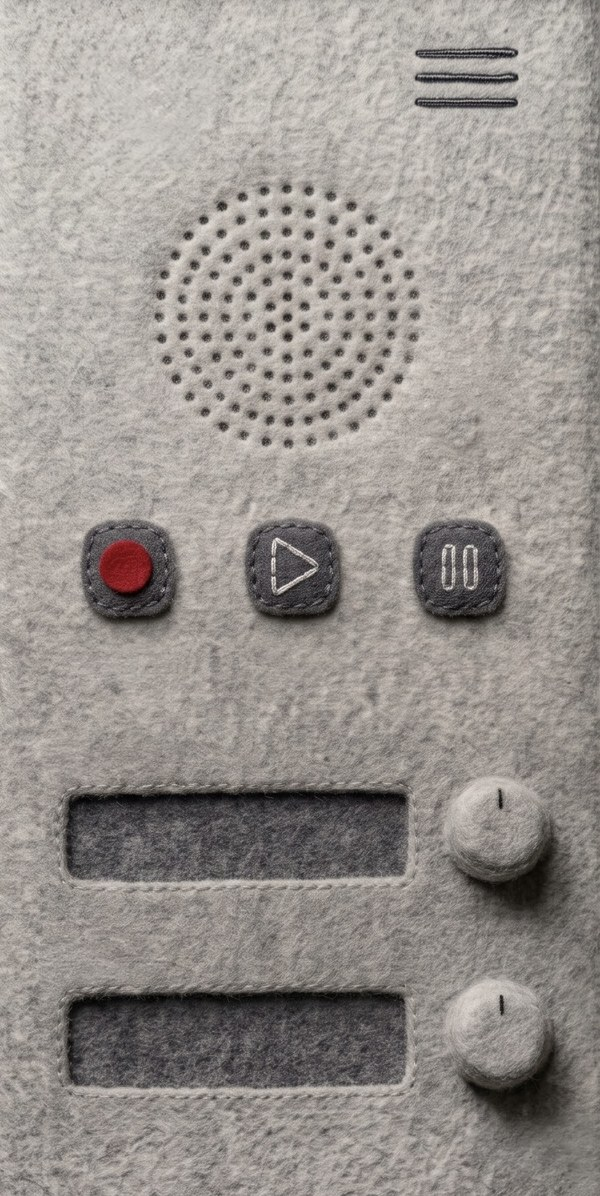
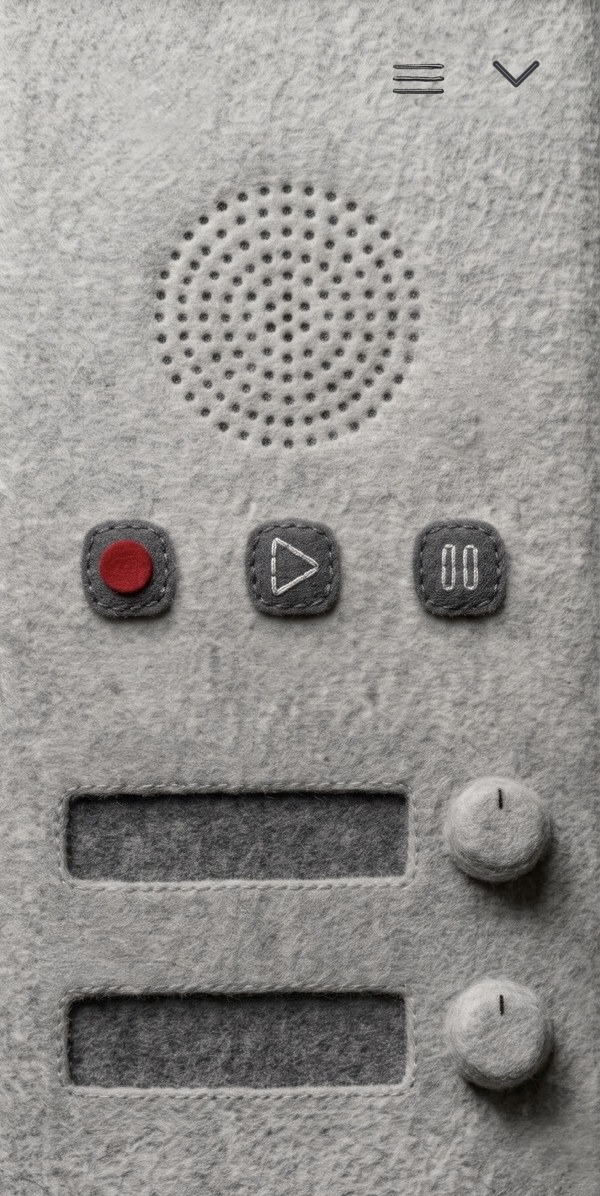
Tape player: as tall as an iPhone is wide, volume knob, close arrow, half-size menu lines, softer grey felt
Claude-Session: https://claude.ai/code/session_01NDsvQ4w6b4M39K7iEhCswz

Changed region(s): [[0.66, 0.0309, 0.9, 0.0928]]

diff --git a/src/components/TapePlayer.js b/src/components/TapePlayer.js
@@ -4,28 +4,37 @@
 //     button in the reading bar; the little red light comes on only while recording)
 //   Sounds (top window) and Music (bottom window): tap a knob to click through the choices; the choice shows
 //     in the window in white, and the knob turns a notch each click
-//   the three lines at the top: open the Music and Sounds page
+//   Volume (the small knob top left): tap to click louder (round again after the loudest), or turn it by
+//     dragging up and down
+//   the three lines at the top: open the Music and Sounds page; the down arrow: close the player
 import React, { useEffect, useRef, useState } from 'react';
 import { Animated, Image, PanResponder, Pressable, StyleSheet, Text, View, useWindowDimensions } from 'react-native';
 import { useSafeAreaInsets } from 'react-native-safe-area-context';
 import { fonts } from '../theme';
-import { MUSIC, SOUNDS, TRACKS, getAmbient, onAmbient, pauseAmbient, playAmbient, requestRecord, setPlayerPos, stepAmbient } from '../ambient';
+import { MUSIC, SOUNDS, TRACKS, getAmbient, onAmbient, pauseAmbient, playAmbient, requestRecord, setAmbientPlayer, setAmbientVolume, setPlayerPos, stepAmbient } from '../ambient';
 import { useT } from '../i18n';
 
 const BODY = require('../../assets/tape-player.jpg');
 const KNOB1 = require('../../assets/tape-knob1.png');
 const KNOB2 = require('../../assets/tape-knob2.png');
-const PW = 132; // the player's width on screen
-const PH = Math.round(PW * 1196 / 600);
-const f = PW / 900; // the picture's own units (900 wide) to the screen
-
-// a spot on the picture, in its own units
-const at = (x, y, w, h) => ({ position: 'absolute', left: x * f, top: y * f, width: w * f, height: h * f });
+// the player's size: almost as tall as an iPhone is wide (a little less on a very small screen)
+const sizeFor = (winW, winH) => {
+  const PH = Math.min(360, Math.round(Math.min(winW, winH) * 0.92));
+  const PW = Math.round(PH * 600 / 1196);
+  return { PW, PH, f: PW / 900 }; // f: the picture's own units (900 wide) to the screen
+};
+// the volume knob: quietest to loudest is a three-quarter turn
+const VMIN = 0.05;
+const angleOf = (v) => -135 + 270 * (Math.max(VMIN, Math.min(1, v)) - VMIN) / (1 - VMIN);
+const STEPS = [0.2, 0.4, 0.6, 0.8, 1];
 
 export default function TapePlayer({ bottomBar = 0, onMenu, toast }) {
   const t = useT();
   const insets = useSafeAreaInsets();
   const { width: winW, height: winH } = useWindowDimensions();
+  const { PW, PH, f } = sizeFor(winW, winH);
+  // a spot on the picture, in its own units
+  const at = (x, y, w, h) => ({ position: 'absolute', left: x * f, top: y * f, width: w * f, height: h * f });
   const [s, setS] = useState(getAmbient());
   useEffect(() => onAmbient(setS), []);
   // where it sits: where it was left, kept on screen (the first time: the right side, above the bar)
@@ -34,6 +43,10 @@ export default function TapePlayer({ bottomBar = 0, onMenu, toast }) {
     y: Math.max(insets.top + 6, Math.min(winH - PH - bottomBar - 6, p ? p.y : winH - PH - bottomBar - 14)),
   });
   const xy = useRef(new Animated.ValueXY(place(s.pos))).current;
+  const placeRef = useRef(place);
+  placeRef.current = place;
+  // when it shows, and when the phone turns: where it was left, kept on the screen
+  useEffect(() => { xy.setValue(place(getAmbient().pos)); }, [winW, winH, s.showPlayer]);
   const start = useRef({ x: 0, y: 0 });
   const drag = useRef(PanResponder.create({
     onMoveShouldSetPanResponder: (_, g) => Math.abs(g.dx) + Math.abs(g.dy) > 6,
@@ -41,7 +54,7 @@ export default function TapePlayer({ bottomBar = 0, onMenu, toast }) {
     onPanResponderGrant: () => { start.current = { x: xy.x._value, y: xy.y._value }; },
     onPanResponderMove: (_, g) => xy.setValue({ x: start.current.x + g.dx, y: start.current.y + g.dy }),
     onPanResponderRelease: (_, g) => {
-      const p = place({ x: start.current.x + g.dx, y: start.current.y + g.dy });
+      const p = placeRef.current({ x: start.current.x + g.dx, y: start.current.y + g.dy });
       Animated.spring(xy, { toValue: p, useNativeDriver: false, friction: 7 }).start();
       setPlayerPos(p);
     },
@@ -52,16 +65,49 @@ export default function TapePlayer({ bottomBar = 0, onMenu, toast }) {
   const k2 = useRef(new Animated.Value(notch(MUSIC, s.music))).current;
   useEffect(() => { Animated.spring(k1, { toValue: notch(SOUNDS, s.sound), useNativeDriver: true, friction: 6 }).start(); }, [s.sound]);
   useEffect(() => { Animated.spring(k2, { toValue: notch(MUSIC, s.music), useNativeDriver: true, friction: 6 }).start(); }, [s.music]);
-  const turn = (v) => ({ transform: [{ rotate: v.interpolate({ inputRange: [0, 360], outputRange: ['0deg', '360deg'] }) }] });
+  // the volume knob follows the volume; tap: the next step up; drag up and down: turn it
+  const kv = useRef(new Animated.Value(angleOf(s.volume))).current;
+  const volDrag = useRef(false);
+  useEffect(() => { if (!volDrag.current) Animated.spring(kv, { toValue: angleOf(s.volume), useNativeDriver: true, friction: 6 }).start(); }, [s.volume]);
+  const vol0 = useRef(0);
+  const volKnob = useRef(PanResponder.create({
+    onStartShouldSetPanResponder: () => true,
+    onPanResponderTerminationRequest: () => false,
+    onPanResponderGrant: () => { vol0.current = getAmbient().volume; volDrag.current = false; },
+    onPanResponderMove: (_, g) => {
+      if (!volDrag.current && Math.abs(g.dx) + Math.abs(g.dy) < 4) return;
+      volDrag.current = true;
+      const v = Math.max(VMIN, Math.min(1, vol0.current + (g.dx - g.dy) / 120));
+      kv.setValue(angleOf(v));
+      setAmbientVolume(v);
+    },
+    onPanResponderRelease: () => {
+      if (!volDrag.current) {
+        const v = getAmbient().volume;
+        setAmbientVolume(STEPS.find((x) => x > v + 0.01) || STEPS[0]);
+      }
+      volDrag.current = false;
+    },
+  })).current;
+  const turn = (v, signed) => ({ transform: [{ rotate: v.interpolate({ inputRange: signed ? [-180, 180] : [0, 360], outputRange: signed ? ['-180deg', '180deg'] : ['0deg', '360deg'] }) }] });
   if (!s.showPlayer) return null;
   const name = (id) => { const x = TRACKS.find((tr) => tr.id === id); return x ? t(x.name) : t('Off'); };
   const record = () => { if (!requestRecord() && toast) toast(t('Open a book to record your voice.')); };
   return (
-    <Animated.View {...drag.panHandlers} style={[styles.body, { transform: xy.getTranslateTransform() }]} accessibilityLabel={t('Music player')}>
-      <View style={styles.inner}>
+    <Animated.View {...drag.panHandlers} style={[styles.body, { width: PW, height: PH, transform: xy.getTranslateTransform() }]} accessibilityLabel={t('Music player')}>
+      <View style={[styles.inner, { width: PW, height: PH }]}>
       <Image source={BODY} style={{ width: PW, height: PH }} resizeMode="stretch" />
-      {/* the three lines: the Music and Sounds page */}
-      <Pressable onPress={onMenu} hitSlop={6} style={at(600, 50, 200, 130)} accessibilityRole="button" accessibilityLabel={t('Music and Sounds')} />
+      {/* the three lines: the Music and Sounds page; the down arrow: close the player */}
+      <Pressable onPress={onMenu} hitSlop={4} style={at(545, 30, 165, 170)} accessibilityRole="button" accessibilityLabel={t('Music and Sounds')} />
+      <Pressable onPress={() => setAmbientPlayer(false)} hitSlop={4} style={at(712, 20, 175, 180)} accessibilityRole="button" accessibilityLabel={t('Close the player')} />
+      {/* the volume knob, top left, with its name underneath */}
+      <View {...volKnob.panHandlers} style={at(50, 45, 160, 160)} accessibilityRole="adjustable" accessibilityLabel={t('Volume')}
+        accessibilityValue={{ min: 0, max: 100, now: Math.round(s.volume * 100) }}
+        accessibilityActions={[{ name: 'increment' }, { name: 'decrement' }]}
+        onAccessibilityAction={(e) => setAmbientVolume(getAmbient().volume + (e.nativeEvent.actionName === 'increment' ? 0.1 : -0.1))}>
+        <Animated.Image source={KNOB1} style={[{ width: 160 * f, height: 160 * f }, turn(kv, true)]} />
+      </View>
+      <Text numberOfLines={1} style={[styles.label, { fontSize: 54 * f, position: 'absolute', left: 0, width: 260 * f, top: 212 * f, textAlign: 'center' }]}>{t('Volume')}</Text>
       {/* the little red light: only while recording */}
       {s.recording ? <View pointerEvents="none" style={[at(660, 611, 54, 54), styles.light]} /> : null}
       {/* Record, Play, Pause, with their names underneath */}
@@ -69,16 +115,16 @@ export default function TapePlayer({ bottomBar = 0, onMenu, toast }) {
       <Pressable onPress={playAmbient} style={at(370, 780, 150, 150)} accessibilityRole="button" accessibilityLabel={t('Play')} />
       <Pressable onPress={pauseAmbient} style={at(620, 780, 150, 150)} accessibilityRole="button" accessibilityLabel={t('Pause')} />
       {[[t('Record'), 190], [t('Play'), 445], [t('Pause'), 695]].map(([label, cx]) => (
-        <Text key={cx} numberOfLines={1} style={[styles.label, { position: 'absolute', left: (cx - 120) * f, width: 240 * f, top: 945 * f, textAlign: 'center' }]}>{label}</Text>
+        <Text key={cx} numberOfLines={1} style={[styles.label, { fontSize: 54 * f, position: 'absolute', left: (cx - 120) * f, width: 240 * f, top: 945 * f, textAlign: 'center' }]}>{label}</Text>
       ))}
       {/* the two windows, named above them, with the choice in white */}
-      <Text style={[styles.label, { position: 'absolute', left: 105 * f, top: 1100 * f }]}>{t('Sounds')}</Text>
+      <Text style={[styles.label, { fontSize: 54 * f, position: 'absolute', left: 105 * f, top: 1100 * f }]}>{t('Sounds')}</Text>
       <View pointerEvents="none" style={[at(118, 1205, 480, 96), styles.window]}>
-        <Text numberOfLines={1} adjustsFontSizeToFit minimumFontScale={0.7} style={[styles.choice, !s.sound && { opacity: 0.6 }]}>{name(s.sound)}</Text>
+        <Text numberOfLines={1} adjustsFontSizeToFit minimumFontScale={0.7} style={[styles.choice, { fontSize: 52 * f }, !s.sound && { opacity: 0.6 }]}>{name(s.sound)}</Text>
       </View>
-      <Text style={[styles.label, { position: 'absolute', left: 105 * f, top: 1404 * f }]}>{t('Music')}</Text>
+      <Text style={[styles.label, { fontSize: 54 * f, position: 'absolute', left: 105 * f, top: 1404 * f }]}>{t('Music')}</Text>
       <View pointerEvents="none" style={[at(118, 1507, 480, 96), styles.window]}>
-        <Text numberOfLines={1} adjustsFontSizeToFit minimumFontScale={0.7} style={[styles.choice, !s.music && { opacity: 0.6 }]}>{name(s.music)}</Text>
+        <Text numberOfLines={1} adjustsFontSizeToFit minimumFontScale={0.7} style={[styles.choice, { fontSize: 52 * f }, !s.music && { opacity: 0.6 }]}>{name(s.music)}</Text>
       </View>
       {/* the knobs: tap to click to the next choice */}
       <Pressable onPress={() => stepAmbient('sound')} style={at(663, 1166, 168, 168)} accessibilityRole="button" accessibilityLabel={`${t('Sounds')}: ${name(s.sound)}`}>
@@ -93,11 +139,11 @@ export default function TapePlayer({ bottomBar = 0, onMenu, toast }) {
 }
 
 const styles = StyleSheet.create({
-  body: { position: 'absolute', left: 0, top: 0, width: PW, height: PH, zIndex: 170, borderRadius: 10,
+  body: { position: 'absolute', left: 0, top: 0, zIndex: 170, borderRadius: 10,
     shadowColor: '#000', shadowOffset: { width: 0, height: 5 }, shadowOpacity: 0.5, shadowRadius: 9, elevation: 12 },
-  inner: { width: PW, height: PH, borderRadius: 10, overflow: 'hidden' },
+  inner: { borderRadius: 10, overflow: 'hidden' },
   light: { borderRadius: 30, backgroundColor: '#a5121d', shadowColor: '#ff3b30', shadowOpacity: 0.8, shadowRadius: 4, shadowOffset: { width: 0, height: 0 } },
-  label: { fontFamily: fonts.ui, fontSize: 8, fontWeight: '600', color: '#4a4a4a' },
+  label: { fontFamily: fonts.ui, fontWeight: '600', color: '#4a4a4a' },
   window: { justifyContent: 'center', paddingHorizontal: 3 },
-  choice: { fontFamily: fonts.ui, fontSize: 7.6, fontWeight: '600', color: '#ffffff' },
+  choice: { fontFamily: fonts.ui, fontWeight: '600', color: '#ffffff' },
 });

diff --git a/src/i18n.js b/src/i18n.js
@@ -240,6 +240,7 @@ const T = {
   'Show': { de: 'Zeigen', fr: 'Afficher', es: 'Mostrar', ja: 'みせる' },
   'Hide': { de: 'Verbergen', fr: 'Masquer', es: 'Ocultar', ja: 'かくす' },
   'Music player': { de: 'Musikspieler', fr: 'Lecteur de musique', es: 'Reproductor de música', ja: 'おんがくプレーヤー' },
+  'Close the player': { de: 'Spieler schließen', fr: 'Fermer le lecteur', es: 'Cerrar el reproductor', ja: 'プレーヤーをとじる' },
   'Previous': { de: 'Zurück', fr: 'Précédent', es: 'Anterior', ja: 'まえ' },
   'Next': { de: 'Weiter', fr: 'Suivant', es: 'Siguiente', ja: 'つぎ' },
   'Play': { de: 'Abspielen', fr: 'Lecture', es: 'Reproducir', ja: 'さいせい' },
